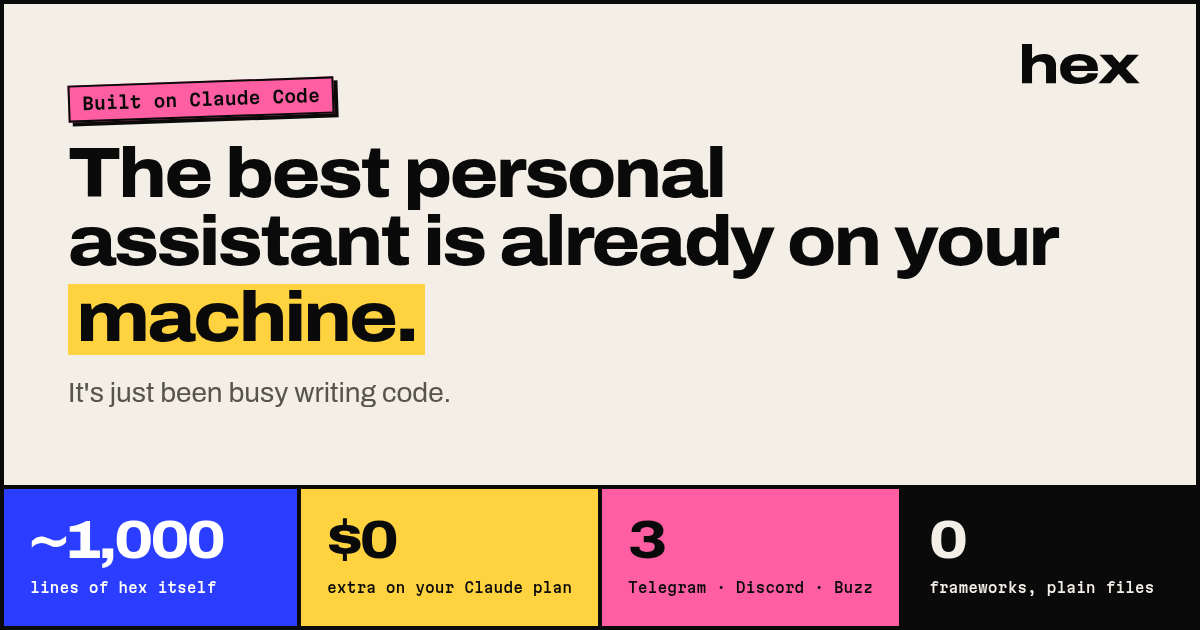
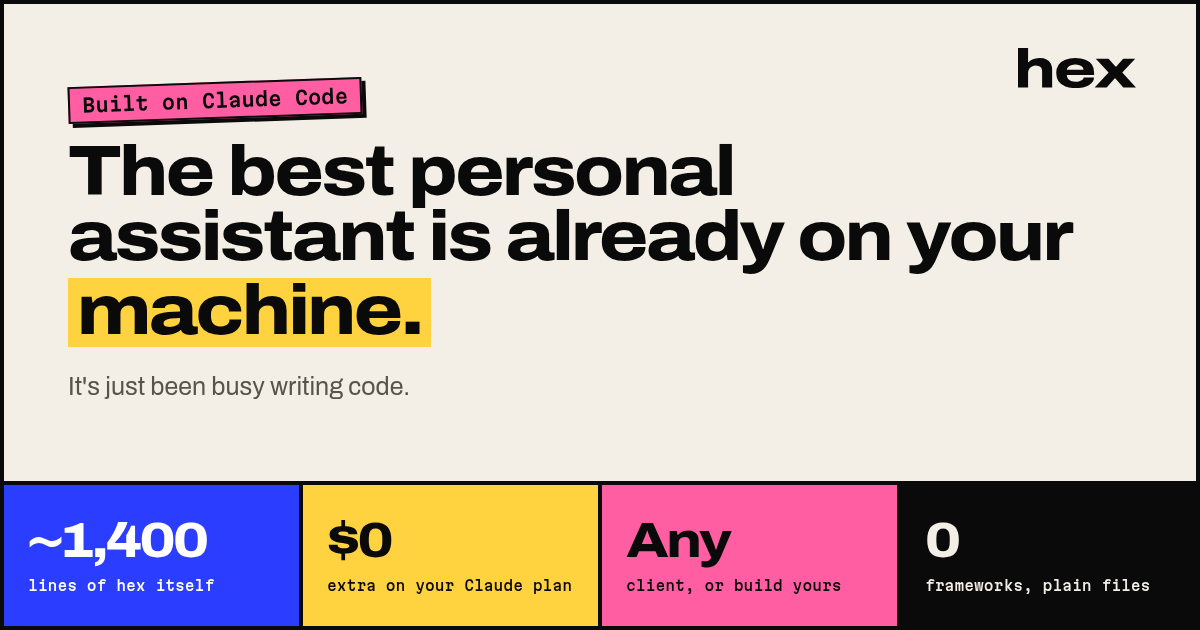
Site: hex next to NanoClaw, counted the same way and compared side by side; works with your client, with a prompt to have your agent build one; Bassim's line in the band; link preview rebuilt from og.html

diff --git a/site/index.html b/site/index.html
@@ -4,17 +4,20 @@
 <meta charset="utf-8">
 <meta name="viewport" content="width=device-width, initial-scale=1">
 <title>hex · The best personal assistant is already on your machine</title>
-<meta name="description" content="Claude Code is the best personal assistant there is. It's just been busy writing code. hex is the thin layer that points it at your life: about 1,000 lines plus its connectors, on the Claude plan you already pay for.">
+<meta name="description" content="Claude Code is the best personal assistant there is. It's just been busy writing code. hex is the thin layer that points it at your life: about 1,400 lines plus its connectors, on the Claude plan you already pay for.">
 <meta name="color-scheme" content="light dark">
 <meta name="theme-color" content="#F3EFE6" media="(prefers-color-scheme: light)">
 <meta name="theme-color" content="#0A0A0A" media="(prefers-color-scheme: dark)">
 <meta property="og:title" content="hex · The best personal assistant is already on your machine">
-<meta property="og:description" content="Claude Code is the best personal assistant there is. It's just been busy writing code. hex is the thin layer that points it at your life: about 1,000 lines plus its connectors, on the Claude plan you already pay for.">
+<meta property="og:description" content="Claude Code is the best personal assistant there is. It's just been busy writing code. hex is the thin layer that points it at your life: about 1,400 lines plus its connectors, on the Claude plan you already pay for.">
 <meta property="og:type" content="website">
 <meta property="og:url" content="https://hex-sand.vercel.app">
-<meta property="og:image" content="https://hex-sand.vercel.app/og.png?v=4">
+<meta property="og:image" content="https://hex-sand.vercel.app/og.png?v=5">
+<meta property="og:image:width" content="1200">
+<meta property="og:image:height" content="630">
+<meta property="og:image:alt" content="hex: The best personal assistant is already on your machine. About 1,400 lines, $0 extra on your Claude plan, any client, no frameworks.">
 <meta name="twitter:card" content="summary_large_image">
-<meta name="twitter:image" content="https://hex-sand.vercel.app/og.png?v=4">
+<meta name="twitter:image" content="https://hex-sand.vercel.app/og.png?v=5">
 <link rel="icon" href="/icon.svg" type="image/svg+xml">
 <link rel="apple-touch-icon" href="/apple-touch-icon.png">
 <link rel="preload" href="/fonts/archivo.woff2" as="font" type="font/woff2" crossorigin>
@@ -74,9 +77,9 @@
 </section>
 
 <section class="stats" aria-label="At a glance">
-  <div class="s-blue"><b>~<span data-count="1000">1,000</span></b><span>lines of hex, plus ~3,000 in connectors. Claude Code does the rest.</span></div>
+  <div class="s-blue"><b>~<span data-count="1400">1,400</span></b><span>lines of hex, plus ~4,200 in connectors. Claude Code does the rest.</span></div>
   <div class="s-yellow"><b>$0</b><span>extra, on the Claude plan you already pay for.</span></div>
-  <div class="s-pink"><b>3</b><span>front ends built in: Telegram, Discord, Buzz. Or build your own.</span></div>
+  <div class="s-pink"><b>Any</b><span>client: Telegram, Discord, Buzz, or one you build.</span></div>
   <div class="s-ink"><b>0</b><span>frameworks, 0 databases. Just plain files you own.</span></div>
 </section>
 
@@ -107,16 +110,28 @@
     <figcaption class="label">Lines of source</figcaption>
     <div class="bar-row"><span class="who">OpenClaw</span><span class="track" aria-hidden="true"><i style="--w:100%"></i></span><b>4 million+</b></div>
     <div class="bar-row"><span class="who">Hermes Agent</span><span class="track" aria-hidden="true"><i style="--w:34%"></i></span><b>1.5 million</b></div>
-    <div class="bar-row"><span class="who">NanoClaw<small>the minimal one</small></span><span class="track" aria-hidden="true"><i style="--w:1.55%"></i></span><b>68,000</b></div>
-    <div class="bar-row r-hex"><span class="who">hex</span><span class="track" aria-hidden="true"><i style="--w:0.023%"></i></span><b>~1,000*</b></div>
-    <p class="fine"><small>* Plus ~3,000 lines of forked and custom connectors for Telegram, Discord and Buzz.</small><br>Tests and generated code excluded. Counted Oct 2026. Even the minimal one is 68x bigger.</p>
+    <div class="bar-row"><span class="who">NanoClaw<small>the minimal one</small></span><span class="track" aria-hidden="true"><i style="--w:1.07%"></i></span><b>47,000</b></div>
+    <div class="bar-row r-hex"><span class="who">hex</span><span class="track" aria-hidden="true"><i style="--w:0.032%"></i></span><b>~1,400*</b></div>
+    <p class="fine"><small>* Plus ~4,200 lines of connectors for Telegram, Discord and Buzz, left out like NanoClaw's chat adapters.</small><br>Tests, docs and generated code excluded. Counted Oct 2026. Even the minimal one is 33x bigger.</p>
+  </figure>
+
+  <figure class="versus" aria-labelledby="vs-title">
+    <figcaption id="vs-title" class="label">Next to the minimal one</figcaption>
+    <table>
+      <thead><tr><td></td><th scope="col">NanoClaw</th><th scope="col"><span>hex</span></th></tr></thead>
+      <tbody>
+        <tr><th scope="row">Runs Claude</th><td>through the Agent SDK, each agent in its own container</td><td>as Claude Code itself, the one you already use</td></tr>
+        <tr><th scope="row">Keeps state</th><td>in a SQLite database</td><td>in plain files, in a git repo you own</td></tr>
+        <tr><th scope="row">Guardrails</th><td>a wall: every agent in a container</td><td>at the edges: who can reach it, what it can send, secrets it never sees</td></tr>
+      </tbody>
+    </table>
   </figure>
 
   <div class="bet">
     <figure class="stack" aria-label="hex is a thin layer on top of Claude Code, which runs on Opus 5.5">
       <div class="layer l-hex">
-        <b>hex</b><span class="size">~1,000 lines</span>
-        <span class="parts">phone&nbsp;· computer&nbsp;· memory&nbsp;· hub</span>
+        <b>hex</b><span class="size">~1,400 lines</span>
+        <span class="parts">phone&nbsp;· computer&nbsp;· memory&nbsp;· vault&nbsp;· hub</span>
       </div>
       <div class="layer l-cc">
         <b>Claude Code</b><span class="size">the best agent harness</span>
@@ -128,22 +143,22 @@
     </figure>
 
     <ul class="points">
-      <li>Why rebuild what Anthropic ships every week?</li>
-      <li>Telegram channel: 714 lines. Upstream's: 1,045.</li>
       <li>Super minimal, super light, super snappy.</li>
+      <li>Why rebuild what Anthropic ships every week?</li>
+      <li>Claude models are the best personal assistant models, period. Everything else is cope.</li>
     </ul>
   </div>
 
-  <p class="quote">Claude models are the best personal assistant models, period. <span>Everything else is cope.</span></p>
+  <p class="quote">The very best personal assistant is the one that does the very least <span>while adding the very most capability.</span></p>
 </section>
 
 <section class="block" aria-labelledby="crew-title">
   <div class="block-head">
     <h2 id="crew-title">One bot. A whole crew.</h2>
-    <p>Telegram, Discord and Buzz come built in, on Anthropic's own channel plugins. Use one, use all three, or build your own on the same hub.</p>
+    <p>Every topic and thread gets its own Claude Code session, all on one hub built on Anthropic's own channel plugins.</p>
   </div>
 
-  <figure class="flow" role="img" aria-label="Telegram, Discord, Buzz, or a channel you build yourself, send messages to the hex hub on your box. The hub routes each topic or thread to its own Claude Code session, and a session can be handed off between apps. Sessions share memory files.">
+  <figure class="flow" role="img" aria-label="Telegram, Discord, Buzz, or a client your agent builds, send messages to the hex hub on your box. The hub routes each topic or thread to its own Claude Code session, and a session can be handed off between apps. Sessions share memory files.">
     <svg class="flow-wide" viewBox="26 0 1050 460" aria-hidden="true">
       <rect class="f-box" x="330" y="24" width="744" height="412"/>
       <rect class="f-boxlabel" x="330" y="24" width="96" height="26"/>
@@ -180,7 +195,7 @@
 
       <rect class="f-yours" x="28" y="344" width="206" height="64"/>
       <text class="f-title f-ink" x="48" y="374">Your own</text>
-      <text class="f-mono f-muted" x="48" y="395">build one on the hub</text>
+      <text class="f-mono f-muted" x="48" y="395">your agent builds it</text>
 
       <rect class="f-shadow" x="390" y="188" width="216" height="76"/>
       <rect class="f-hub" x="384" y="182" width="216" height="76"/>
@@ -220,7 +235,7 @@
       <rect class="f-shadow" x="16" y="106" width="200" height="60"/><rect class="f-bz" x="10" y="100" width="200" height="60"/>
       <text class="f-title" x="24" y="128">Buzz</text><text class="f-mono" x="24" y="148">your workspace</text>
       <rect class="f-yours" x="240" y="100" width="200" height="60"/>
-      <text class="f-title f-ink" x="254" y="128">Your own</text><text class="f-mono f-muted" x="254" y="148">build one on the hub</text>
+      <text class="f-title f-ink" x="254" y="128">Your own</text><text class="f-mono f-muted" x="254" y="148">your agent builds it</text>
 
       <g transform="translate(20 70)">
       <rect class="f-box" x="10" y="150" width="400" height="476"/>
@@ -348,8 +363,8 @@ earlier    summarized <span class="ok">✓</span>
 
 <section class="block" aria-labelledby="rooms-title">
   <div class="block-head">
-    <h2 id="rooms-title">Different rooms, same house.</h2>
-    <p>Each app does what it's best at. Use the ones you like, and hex connects them.</p>
+    <h2 id="rooms-title">Works with your client.</h2>
+    <p>Pick a ready one, or tell your agent to build yours. hex connects them all.</p>
   </div>
 
   <div class="ways">
@@ -455,9 +470,32 @@ earlier    summarized <span class="ok">✓</span>
         <li>Shared with people and agents</li>
       </ul>
     </article>
+    <article class="way wide own-way">
+      <header>
+        <span class="tag t-own">Your own</span>
+        <h3>Tell your agent.</h3>
+      </header>
+      <div class="own">
+        <div class="own-apps" role="group" aria-label="Pick an app">
+          <button type="button" class="chip" aria-pressed="true" data-app="Slack" data-unit="thread">Slack</button>
+          <button type="button" class="chip" aria-pressed="false" data-app="WhatsApp" data-unit="chat">WhatsApp</button>
+          <button type="button" class="chip" aria-pressed="false" data-app="Signal" data-unit="chat">Signal</button>
+          <button type="button" class="chip" aria-pressed="false" data-app="Matrix" data-unit="room">Matrix</button>
+        </div>
+        <div class="prompt">
+          <pre><code id="own-prompt">Build me a <b data-slot="app">Slack</b> channel on your hub, modeled on your Discord one, so every <b data-slot="app">Slack</b> <b data-slot="unit">thread</b> is its own session.</code></pre>
+          <button type="button" class="copy" data-copy="own-prompt"><span aria-live="polite">Copy</span></button>
+        </div>
+      </div>
+      <ul>
+        <li>Same hub, same sessions, same memory</li>
+        <li>Pick an app, paste the prompt</li>
+        <li>Buzz was built this way</li>
+      </ul>
+    </article>
   </div>
 
-  <p class="strip"><span class="soon-tag">coming</span> iMessage, and checking on any thread from any app.</p>
+  <p class="strip"><span class="soon-tag">coming</span> A ready-made iMessage client, and checking on any thread from any app.</p>
 </section>
 
 <p class="strip plan">Table stakes too: an hourly check that stays quiet unless something needs you, schedules in one JSON file, voice notes.</p>
@@ -465,7 +503,7 @@ earlier    summarized <span class="ok">✓</span>
 <section class="block" aria-labelledby="yours-title">
   <div class="block-head">
     <h2 id="yours-title">There are many assistants. This one is <mark>yours.</mark></h2>
-    <p>About 1,000 lines you can read in an afternoon, in a folder you own. Change it, extend it, fork it.</p>
+    <p>About 1,400 lines you can read in an afternoon, in a folder you own. Change it, extend it, fork it.</p>
   </div>
 
   <div class="features lead">
@@ -572,11 +610,23 @@ document.querySelectorAll('[data-copy]').forEach((button) => {
   });
 });
 
+const ownPrompt = document.getElementById('own-prompt');
+const calm = matchMedia('(prefers-reduced-motion: reduce)');
+document.querySelectorAll('[data-app]').forEach((chip, _, chips) => {
+  chip.addEventListener('click', () => {
+    chips.forEach((other) => other.setAttribute('aria-pressed', other === chip));
+    ownPrompt.querySelectorAll('[data-slot]').forEach((slot) => {
+      slot.textContent = chip.dataset[slot.dataset.slot];
+      if (!calm.matches) slot.animate([{ opacity: 0, transform: 'translateY(0.25em)' }, { opacity: 1, transform: 'none' }], { duration: 220, easing: 'cubic-bezier(0.23, 1, 0.32, 1)' });
+    });
+  });
+});
+
 const counter = document.querySelector('[data-count]');
 new IntersectionObserver(([entry], observer) => {
   if (!entry.isIntersecting) return;
   observer.disconnect();
-  if (matchMedia('(prefers-reduced-motion: reduce)').matches) return;
+  if (calm.matches) return;
   const target = Number(counter.dataset.count);
   const start = performance.now();
   const tick = (now) => {

diff --git a/site/style.css b/site/style.css
@@ -340,7 +340,7 @@ mark { display: inline-block; margin-top: 0.1em; padding: 0 0.12em 0.04em; backg
 .paper ul { padding: 0; list-style: none; }
 .paper li { position: relative; padding-left: 1.1em; }
 .paper li::before { content: "-"; position: absolute; left: 0.2em; }
-.paper strong { padding-inline: 0.15em; background: linear-gradient(transparent 30%, rgb(255 210 63 / 0.85) 0 85%, transparent 0); font-weight: 700; }
+.paper strong { padding-inline: 0.15em; background: linear-gradient(transparent 45%, rgb(255 210 63 / 0.85) 0 85%, transparent 0); font-weight: 700; }
 .paper a { color: var(--blue); text-decoration-thickness: 2px; text-underline-offset: 0.18em; }
 .paper .signed { width: fit-content; font-size: 1.35em; font-weight: 700; rotate: -3deg; }
 
@@ -363,6 +363,7 @@ h2 { font-size: clamp(2rem, 1.2rem + 2.8vw, 3.5rem); line-height: 0.98; max-widt
 .t-tg { background: var(--tg); }
 .t-dc { background: var(--dc); }
 .t-bz { background: var(--bz); color: var(--black); }
+.t-own { border-style: dashed; border-color: var(--line); background: var(--bg); color: var(--ink); box-shadow: none; }
 
 /* Rooms */
 
@@ -395,9 +396,26 @@ h2 { font-size: clamp(2rem, 1.2rem + 2.8vw, 3.5rem); line-height: 0.98; max-widt
   .way + .way { border-top: 0; border-left: var(--b); }
   .way.wide { grid-column: 1 / -1; grid-template-columns: subgrid; grid-template-rows: auto 1fr; padding-inline: 0; }
   .way.wide > * { grid-column: 1; margin-inline: var(--pad); }
-  .way.wide > .tg-list { grid-column: 2; grid-row: 1 / -1; }
+  .way.wide > .tg-list, .way.wide > .own { grid-column: 2; grid-row: 1 / -1; }
   .way.wide > ul { align-self: end; }
+  .ways > .own-way { border-top: var(--b); border-left: 0; }
 }
+
+.own-way { border-top: var(--b); background: radial-gradient(circle at 1px 1px, var(--hair) 1px, transparent 1.4px) 0 0 / 18px 18px, var(--bg); }
+.own { display: grid; align-content: center; gap: var(--s3); }
+.own-apps { display: flex; flex-wrap: wrap; gap: var(--s1); }
+.own-apps .chip {
+  border-color: var(--line); background: var(--surface); color: var(--ink);
+  cursor: pointer;
+  transition: transform 140ms var(--ease-out), box-shadow 140ms var(--ease-out), background 140ms;
+}
+.own-apps .chip[aria-pressed="true"] { border-color: var(--black); background: var(--yellow); color: var(--black); box-shadow: 3px 3px 0 var(--shadow); transform: translate(-1px, -1px); }
+.own-apps .chip:active { transform: translate(1px, 1px); box-shadow: none; }
+@media (hover: hover) { .own-apps .chip[aria-pressed="false"]:hover { box-shadow: 3px 3px 0 var(--shadow); transform: translate(-1px, -1px); } }
+.own .prompt { grid-template-columns: minmax(0, 1fr); margin: 0; box-shadow: 8px 8px 0 var(--shadow); }
+.own .copy { height: 2.75rem; border-left: 0; border-top: 3px solid var(--edge); }
+.own .prompt pre { padding: 1.1rem 1.25rem; font-size: 0.875rem; }
+.own .prompt b { display: inline-block; font-weight: 700; }
 
 .tg-list, .dc, .bz {
   border: 3px solid var(--black);
@@ -579,7 +597,7 @@ h2 { font-size: clamp(2rem, 1.2rem + 2.8vw, 3.5rem); line-height: 0.98; max-widt
 .points { padding: 0; list-style: none; font-size: clamp(1.125rem, 1rem + 0.5vw, 1.375rem); font-weight: 700; font-stretch: 108%; letter-spacing: -0.015em; }
 .points li:last-child { border-bottom: 1px solid var(--hair); }
 
-.scale { display: grid; gap: var(--s3); padding: 0 var(--pad) var(--section); }
+.scale { display: grid; gap: var(--s3); padding: 0 var(--pad) var(--s5); }
 .label { font: 600 0.6875rem/1 var(--mono); color: var(--muted); }
 .bar-row { display: grid; grid-template-columns: 10rem minmax(0, 1fr) 7.5rem; align-items: center; gap: 0.4rem 1rem; }
 .who { font-weight: 800; font-stretch: 110%; line-height: 1.2; }
@@ -597,6 +615,23 @@ h2 { font-size: clamp(2rem, 1.2rem + 2.8vw, 3.5rem); line-height: 0.98; max-widt
   .track { grid-column: 1 / -1; grid-row: 2; }
 }
 
+.versus { display: grid; gap: var(--s3); padding: 0 var(--pad) var(--section); }
+.versus table { width: 100%; border-collapse: collapse; border-block: 2px solid var(--line); }
+.versus th, .versus td { padding: 0.8rem 1rem 0.8rem 0; text-align: left; vertical-align: baseline; }
+.versus thead th { font-weight: 800; font-stretch: 110%; }
+.versus thead th span { padding: 0.15rem 0.4rem; background: var(--yellow); color: #0A0A0A; }
+.versus tbody tr { border-top: 1px solid var(--hair); }
+.versus tbody th { font: 600 0.6875rem/1.6 var(--mono); color: var(--muted); white-space: nowrap; }
+.versus tbody td { font-size: 0.9375rem; line-height: 1.4; color: var(--muted); }
+.versus tbody td:last-child { color: var(--ink); font-weight: 600; }
+.versus thead td, .versus tbody th { width: 11rem; }
+@media (max-width: 40rem) {
+  .versus thead td { display: none; }
+  .versus tr { display: grid; grid-template-columns: repeat(2, minmax(0, 1fr)); column-gap: 1rem; }
+  .versus th, .versus td { padding-right: 0; }
+  .versus tbody th { grid-column: 1 / -1; width: auto; padding-bottom: 0; }
+}
+
 .quote {
   padding: var(--s5) var(--pad);
   border-top: var(--b);
@@ -605,6 +640,7 @@ h2 { font-size: clamp(2rem, 1.2rem + 2.8vw, 3.5rem); line-height: 0.98; max-widt
   line-height: 1.1; letter-spacing: -0.03em; text-wrap: balance;
 }
 .quote span { color: var(--yellow); }
+@media (prefers-color-scheme: dark) { .quote { background: var(--surface); } }
 
 /* Closer */
 
@@ -740,23 +776,25 @@ h2 { font-size: clamp(2rem, 1.2rem + 2.8vw, 3.5rem); line-height: 0.98; max-widt
 
 .prompt {
   display: grid; grid-template-columns: minmax(0, 1fr) auto;
+  --edge: #0A0A0A;
   margin: 0 var(--pad) var(--section);
-  border: 3px solid var(--black);
+  border: 3px solid var(--edge);
   background: var(--yellow); color: #0A0A0A;
   box-shadow: 10px 10px 0 var(--shadow);
 }
 .prompt pre { padding: 1.5rem 1.6rem; font: 500 0.9375rem/1.7 var(--mono); white-space: pre-wrap; overflow-wrap: anywhere; }
 .copy {
-  min-width: 7.5rem; border: 0; border-left: 3px solid #0A0A0A;
+  min-width: 7.5rem; border: 0; border-left: 3px solid var(--edge);
   background: #0A0A0A; color: #fff;
   font: 600 0.8125rem/1 var(--mono); cursor: pointer;
   transition: background 140ms;
 }
 .copy.done { background: var(--blue); }
+@media (prefers-color-scheme: dark) { .prompt { --edge: var(--line); } }
 .copy:active span { display: inline-block; transform: scale(0.96); }
 @media (max-width: 34rem) {
   .prompt { grid-template-columns: minmax(0, 1fr); box-shadow: 6px 6px 0 var(--shadow); }
-  .copy { height: 3rem; border-left: 0; border-top: 3px solid #0A0A0A; }
+  .copy { height: 3rem; border-left: 0; border-top: 3px solid var(--edge); }
 }
 
 .needs { display: grid; gap: 2px; background: var(--line); border-top: var(--b); }

diff --git a/site/og.html b/site/og.html
@@ -1,0 +1,42 @@
+<!doctype html>
+<html lang="en">
+<head>
+<meta charset="utf-8">
+<title>hex link preview</title>
+<style>
+@font-face { font-family: "Archivo"; src: url("/fonts/archivo.woff2") format("woff2"); font-weight: 100 900; font-stretch: 62% 125%; }
+@font-face { font-family: "Martian Mono"; src: url("/fonts/martian-mono.woff2") format("woff2"); font-weight: 100 800; font-stretch: 75% 112.5%; }
+* { box-sizing: border-box; margin: 0; }
+html, body { width: 1200px; height: 630px; overflow: hidden; }
+body { display: grid; grid-template-rows: 1fr 141px; border: 4px solid #0A0A0A; background: #F3EFE6; color: #0A0A0A; font-family: "Archivo", sans-serif; -webkit-font-smoothing: antialiased; }
+.top { position: relative; padding: 78px 64px 0; border-bottom: 4px solid #0A0A0A; }
+.mark { position: absolute; top: 44px; right: 60px; width: 118px; fill: #0A0A0A; }
+.sticker { display: inline-block; padding: 7px 12px; border: 2px solid #0A0A0A; background: #FF5FA2; font: 600 19px/1 "Martian Mono", monospace; box-shadow: 4px 4px 0 #0A0A0A; transform: rotate(-2deg); }
+h1 { margin-top: 20px; font-size: 71px; font-weight: 800; font-stretch: 112%; line-height: 0.92; letter-spacing: -0.035em; }
+mark { display: inline-block; margin-top: 8px; padding: 0 9px 4px; background: #FFD23F; color: #0A0A0A; }
+p { margin-top: 26px; color: #57544C; font-size: 25px; }
+.stats { display: grid; grid-template-columns: repeat(4, minmax(0, 1fr)); gap: 4px; background: #0A0A0A; }
+.stats div { display: grid; align-content: center; gap: 16px; padding: 0 24px; }
+.stats b { font-size: 50px; font-weight: 800; font-stretch: 115%; line-height: 0.9; letter-spacing: -0.05em; }
+.stats span { font: 500 14px/1 "Martian Mono", monospace; white-space: nowrap; }
+.blue { background: #2B3EFF; color: #fff; }
+.yellow { background: #FFD23F; }
+.pink { background: #FF5FA2; }
+.ink { background: #0A0A0A; color: #F3EFE6; }
+</style>
+</head>
+<body>
+<div class="top">
+  <svg class="mark" viewBox="0 0 2167 737" aria-label="hex"><path d="M0 725V0H185V264H192Q220 235 253 217.5Q286 200 323 192.5Q360 185 397 185Q474 185 525 209.5Q576 234 601.5 283.5Q627 333 627 407V725H443V432Q443 405 435.5 384.5Q428 364 413.5 350.5Q399 337 377.5 330Q356 323 328 323Q289 323 256.5 339Q224 355 204.5 383.5Q185 412 185 450V725ZM1059 737Q951 737 871 708Q791 679 746.5 617.5Q702 556 702 461Q702 369 745.5 307.5Q789 246 867.5 215.5Q946 185 1051 185Q1161 185 1238.5 215Q1316 245 1357 305Q1398 365 1398 455V498H896Q898 540 918 567Q938 594 974.5 606.5Q1011 619 1061 619Q1088 619 1113 613.5Q1138 608 1158.5 598Q1179 588 1191.5 573Q1204 558 1206 540H1396Q1396 585 1371 621.5Q1346 658 1301 684Q1256 710 1194 723.5Q1132 737 1059 737ZM896 400H1201Q1201 378 1190.5 360Q1180 342 1160.5 329.5Q1141 317 1114.5 310Q1088 303 1057 303Q1010 303 975.5 315Q941 327 921 349Q901 371 896 400ZM1408 725 1664 448 1428 197H1663L1795 345H1801L1932 197H2153L1915 451L2167 725H1934L1785 554H1779L1629 725Z"/></svg>
+  <span class="sticker">Built on Claude Code</span>
+  <h1>The best personal<br>assistant is already on your<br><mark>machine.</mark></h1>
+  <p>It's just been busy writing code.</p>
+</div>
+<div class="stats">
+  <div class="blue"><b>~1,400</b><span>lines of hex itself</span></div>
+  <div class="yellow"><b>$0</b><span>extra on your Claude plan</span></div>
+  <div class="pink"><b>Any</b><span>client, or build yours</span></div>
+  <div class="ink"><b>0</b><span>frameworks, plain files</span></div>
+</div>
+</body>
+</html>
